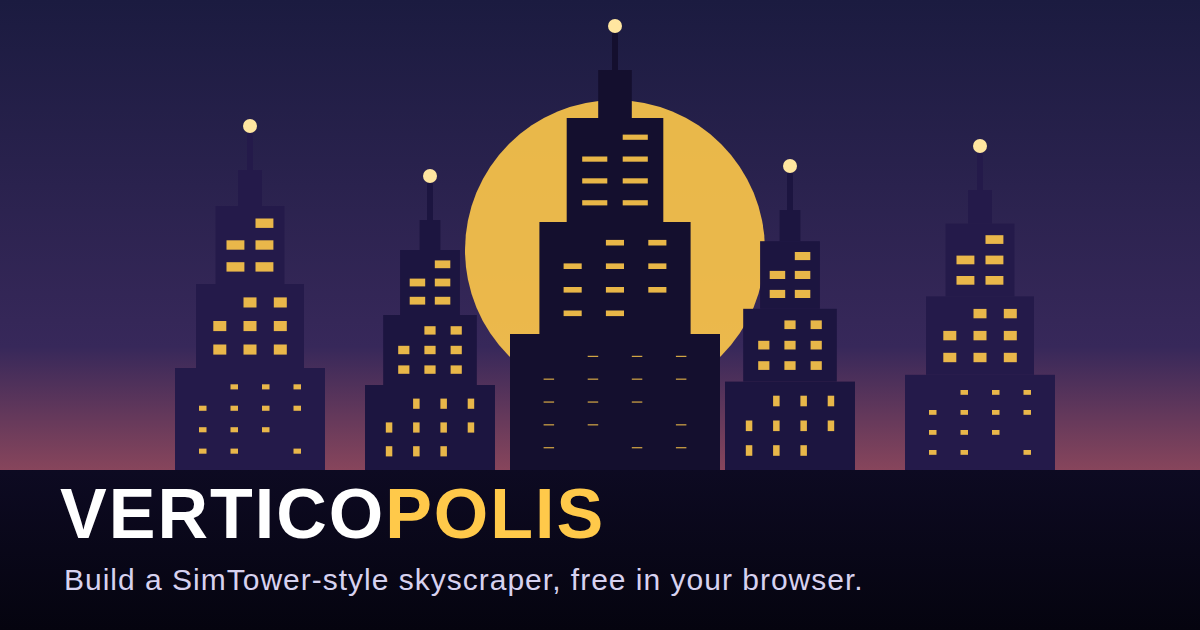
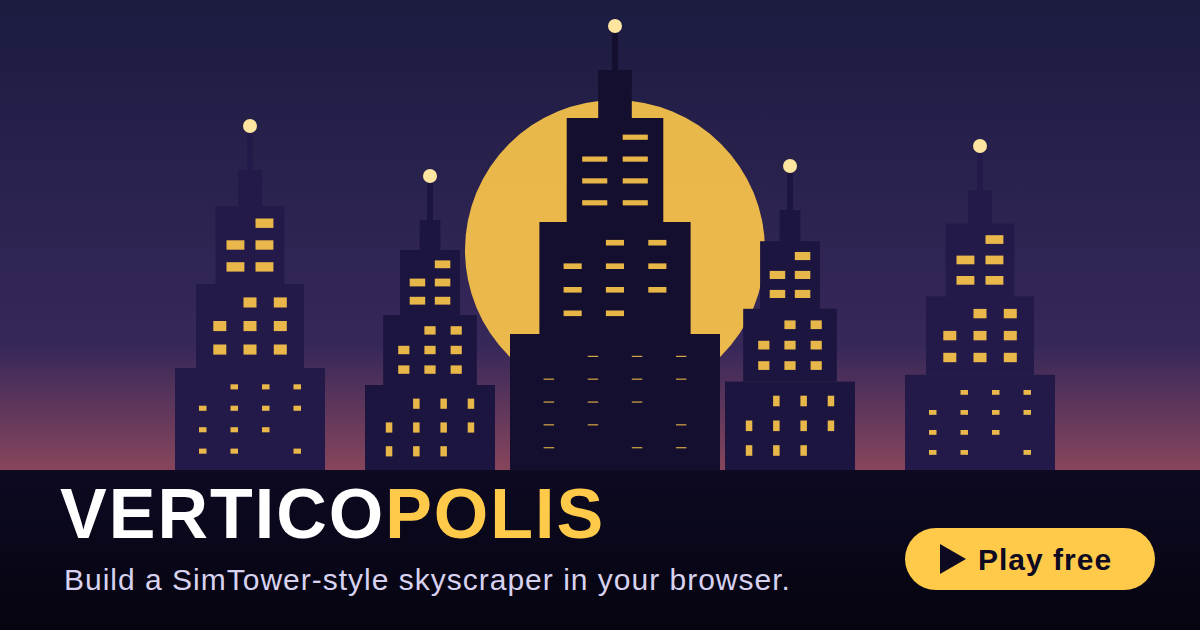
Tighten OG copy and add a "Play free" call to action to the share card
Follow-up to the discovery-metadata pass, from an opengraph.xyz check:

- Trim the meta description (141 chars) and og:description (146 chars) so
  the hook is front-loaded and does not truncate in search results or
  mobile social previews. Trim twitter:description in lockstep.
- Give the social share card a small gold "Play free" pill with a play
  glyph, so the card reads as a game to play rather than a static poster.
  Drop "free" from the card tagline so it is said once, in the pill.
- Update og:image:alt / twitter:image:alt on both pages to describe the
  new card, wording it as a "call to action" rather than a "button" since
  the image is not interactive.

The pill coordinates are ground-relative like the rest of the card, and
its width leaves margin for the DejaVu Sans fallback font. Card
regenerates byte-identically in the pinned container.

Claude-Session: https://claude.ai/code/session_01FDPd1cgyRPn3keUFa6Htjk

Changed region(s): [[0.74, 0.8143, 0.9867, 0.9349], [0.4625, 0.9048, 0.7092, 0.9349]]

diff --git a/src/index.html b/src/index.html
@@ -6,7 +6,7 @@
     <title>Verticopolis: Play a SimTower Clone Free in Your Browser</title>
     <meta
       name="description"
-      content="Play Verticopolis, a free browser-based SimTower clone. Build a skyscraper floor by floor, wire the elevators, manage the crowds, and climb from a single lobby to a 5-star tower."
+      content="Play Verticopolis, a free SimTower clone in your browser. Build a skyscraper floor by floor, wire the elevators, and climb to a 5-star tower."
     />
     <link rel="canonical" href="https://verticopolis.com/" />
     <meta name="robots" content="index, follow, max-image-preview:large" />
@@ -19,13 +19,13 @@
     <meta property="og:title" content="Verticopolis: a free SimTower clone you play in the browser" />
     <meta
       property="og:description"
-      content="Build a skyscraper floor by floor: offices, condos, shops, and hotels wired with elevators. Manage the traffic and climb from a single lobby to a 5-star tower. No download, plays instantly."
+      content="Build a skyscraper floor by floor: offices, condos, shops, and hotels wired with elevators. Climb to a 5-star tower. No download, plays instantly."
     />
     <meta property="og:url" content="https://verticopolis.com/" />
     <meta property="og:image" content="https://verticopolis.com/og-image.png" />
     <meta property="og:image:width" content="1200" />
     <meta property="og:image:height" content="630" />
-    <meta property="og:image:alt" content="Verticopolis: an art-deco skyline at dusk over the tagline Build a SimTower-style skyscraper, free in your browser." />
+    <meta property="og:image:alt" content="Verticopolis: an art-deco skyline at dusk with the tagline Build a SimTower-style skyscraper in your browser and a Play free call to action." />
     <meta property="og:locale" content="en_US" />
 
     <!-- Twitter/X large-image card. -->
@@ -33,10 +33,10 @@
     <meta name="twitter:title" content="Verticopolis: a free SimTower clone you play in the browser" />
     <meta
       name="twitter:description"
-      content="Build a skyscraper floor by floor, wire the elevators, manage the crowds, and climb to a 5-star tower. No download, plays instantly."
+      content="Build a skyscraper floor by floor, wire the elevators, and climb to a 5-star tower. No download, plays instantly."
     />
     <meta name="twitter:image" content="https://verticopolis.com/og-image.png" />
-    <meta name="twitter:image:alt" content="Verticopolis: an art-deco skyline at dusk over the tagline Build a SimTower-style skyscraper, free in your browser." />
+    <meta name="twitter:image:alt" content="Verticopolis: an art-deco skyline at dusk with the tagline Build a SimTower-style skyscraper in your browser and a Play free call to action." />
 
     <!-- Structured data: mark this up as a free, browser-playable game so it is
          eligible for rich results. Kept in sync with the copy above. -->

diff --git a/src/gallery.html b/src/gallery.html
@@ -19,7 +19,7 @@
     />
     <meta property="og:url" content="https://verticopolis.com/gallery.html" />
     <meta property="og:image" content="https://verticopolis.com/og-image.png" />
-    <meta property="og:image:alt" content="Verticopolis: an art-deco skyline at dusk over the tagline Build a SimTower-style skyscraper, free in your browser." />
+    <meta property="og:image:alt" content="Verticopolis: an art-deco skyline at dusk with the tagline Build a SimTower-style skyscraper in your browser and a Play free call to action." />
     <meta name="twitter:card" content="summary_large_image" />
     <meta name="twitter:title" content="Verticopolis Sprite Gallery: every room drawn in code" />
     <meta
@@ -27,7 +27,7 @@
       content="Every room, facility, and transport in the browser SimTower clone Verticopolis, drawn procedurally in code with no external art assets."
     />
     <meta name="twitter:image" content="https://verticopolis.com/og-image.png" />
-    <meta name="twitter:image:alt" content="Verticopolis: an art-deco skyline at dusk over the tagline Build a SimTower-style skyscraper, free in your browser." />
+    <meta name="twitter:image:alt" content="Verticopolis: an art-deco skyline at dusk with the tagline Build a SimTower-style skyscraper in your browser and a Play free call to action." />
     <style>
       /* Retro (Win3.1 / SimTower) theme, matching the main app. */
       body {
